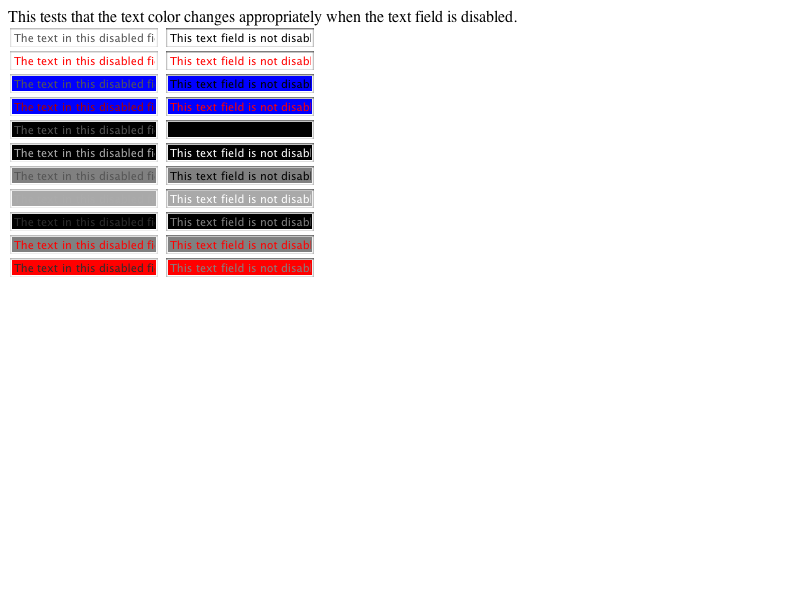
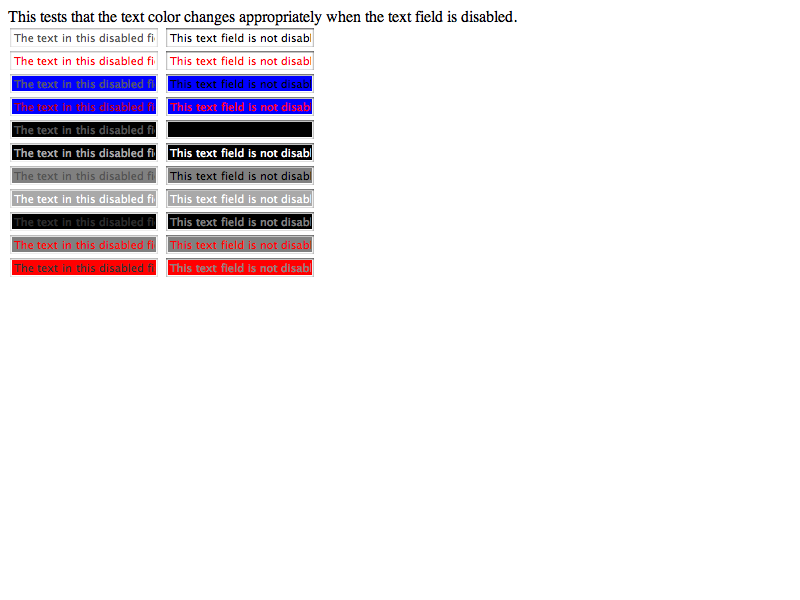
WebCore:
2008-09-30  Adele Peterson  <adele@apple.com>

        Reviewed by Darin Adler.

        Fix for https://bugs.webkit.org/show_bug.cgi?id=21227
        <rdar://problem/6222134> add a way to set color for input placeholder text

        Test: fast/forms/placeholder-pseudo-style.html

        This change adds "-webkit-input-placeholder-mode" as a pseudo class that can be used to style
        input elements when they are displaying the placeholder text.

        * css/CSSSelector.cpp: (WebCore::CSSSelector::extractPseudoType): Add case for inputPlaceholderMode.
        * css/CSSSelector.h: (WebCore::CSSSelector::): Add PseudoInputPlaceholderMode.
        * css/CSSStyleSelector.cpp: (WebCore::CSSStyleSelector::SelectorChecker::checkOneSelector):
        Add check for PseudoInputPlaceholderMode that asks the node if placeholderShouldBeVisible is true.
        * css/html4.css: Add rule to make placeholder text default to darkGray.

        * html/HTMLInputElement.cpp:
        (WebCore::HTMLInputElement::init): Initialize m_placeholderShouldBeVisible.
        (WebCore::HTMLInputElement::dispatchFocusEvent): Call updatePlaceholderVisibility.
        (WebCore::HTMLInputElement::dispatchBlurEvent): ditto.
        (WebCore::HTMLInputElement::parseMappedAttribute): ditto.
        (WebCore::HTMLInputElement::setValue): ditto.
        (WebCore::HTMLInputElement::setValueFromRenderer): ditto.
[…]

diff --git a/LayoutTests/fast/forms/password-placeholder-text-security.html b/LayoutTests/fast/forms/password-placeholder-text-security.html
@@ -1,0 +1,36 @@
+<html>
+    <head>
+        <script>
+            function test()
+            {
+                if (window.layoutTestController)
+                    layoutTestController.waitUntilDone();
+                    
+                // 1) leave field 1 alone. It should show the placeholder text.
+                // 2) focus field 2 and type.  It should show bullets for the password.
+                    var password = document.getElementById("pass2");
+                    password.focus();
+                    document.execCommand("InsertText", false, "test");
+                // 3) focus field 3 and type.  Clear the value and blur the field.  It should show the placeholder text.
+                    password = document.getElementById("pass3");
+                    password.focus();
+                    document.execCommand("InsertText", false, "test");
+                    password.value = "";
+                    password.blur();
+
+                if (window.layoutTestController)
+                    layoutTestController.notifyDone();
+            }
+            function log(msg)
+            {
+                document.getElementById('console').appendChild(document.createTextNode(msg + "\n"));
+            }
+        </script>
+    </head>
+    <body onload="test()">
+        This tests that the text security mode switches correctly when the placeholder appears and disappears.<br>
+        Leave field 1 alone. It should show the placeholder text: <input type="password" id="pass1" placeholder="placeholder"><br>
+        Focus field 2 and type.  It should show bullets for the password.: <input type="password" id="pass2" placeholder="placeholder"><br>
+        Focus field 3 and type.  Clear the value and blur the field.  It should show the placeholder text: <input type="password" id="pass3" placeholder="placeholder"><br>
+    </body>
+</html>

diff --git a/LayoutTests/fast/forms/placeholder-pseudo-style.html b/LayoutTests/fast/forms/placeholder-pseudo-style.html
@@ -1,0 +1,12 @@
+<style>
+input.red:-webkit-input-placeholder-mode {
+    color: rgb(100, 0, 0);
+}
+</style>
+This tests that you can set the placeholder text color.<br>
+<input class="red" placeholder="text">
+<input class="red" type="search" placeholder="search">
+<input class="red" type="password" placeholder="password">
+<input class="red" disabled placeholder="disabled text">
+<input placeholder="default">
+<input placeholder="default disabled">

diff --git a/WebCore/css/html4.css b/WebCore/css/html4.css
@@ -361,6 +361,10 @@ textarea {
     cursor: auto;
 }
 
+input:-webkit-input-placeholder-mode {
+    color: darkGray;
+}
+
 input[type="password"] {
     -webkit-text-security: disc !important;
 }

diff --git a/WebCore/rendering/RenderTextControl.cpp b/WebCore/rendering/RenderTextControl.cpp
@@ -58,6 +58,28 @@ namespace WebCore {
 using namespace EventNames;
 using namespace HTMLNames;
 
+// Value chosen by observation.  This can be tweaked.
+static const int minColorContrastValue = 1300;
+
+static Color disabledTextColor(const Color& textColor, const Color& backgroundColor)
+{
+    // The explicit check for black is an optimization for the 99% case (black on white).
+    // This also means that black on black will turn into grey on black when disabled.
+    Color disabledColor;
+    if (textColor.rgb() == Color::black || differenceSquared(textColor, Color::white) > differenceSquared(backgroundColor, Color::white))
+        disabledColor = textColor.light();
+    else
+        disabledColor = textColor.dark();
+    
+    // If there's not very much contrast between the disabled color and the background color,
+    // just leave the text color alone.  We don't want to change a good contrast color scheme so that it has really bad contrast.
+    // If the the contrast was already poor, then it doesn't do any good to change it to a different poor contrast color scheme.
+    if (differenceSquared(disabledColor, backgroundColor) < minColorContrastValue)
+        return textColor;
+    
+    return disabledColor;
+}
+
 RenderTextControl::RenderTextControl(Node* node, bool multiLine)
     : RenderBlock(node)
     , m_dirty(false)
@@ -118,15 +140,6 @@ void RenderTextControl::setStyle(RenderStyle* style)
 
     setHasOverflowClip(false);
     setReplaced(isInline());
-}
-
-static Color disabledTextColor(const Color& textColor, const Color& backgroundColor)
-{
-    // The explcit check for black is an optimization for the 99% case (black on white).
-    // This also means that black on black will turn into grey on black when disabled.
-    if (textColor.rgb() == Color::black || differenceSquared(textColor, Color::white) > differenceSquared(backgroundColor, Color::white))
-        return textColor.light();
-    return textColor.dark();
 }
 
 RenderStyle* RenderTextControl::createInnerBlockStyle(RenderStyle* startStyle)
@@ -190,6 +203,12 @@ RenderStyle* RenderTextControl::createInnerTextStyle(RenderStyle* startStyle)
         textBlockStyle->setPaddingLeft(Length(3, Fixed));
         textBlockStyle->setPaddingRight(Length(3, Fixed));
     }
+    
+    // When the placeholder is going to be displayed, temporarily override the text security to be "none".
+    // After this, updateFromElement will immediately update the text displayed.
+    // When the placeholder is no longer visible, style will be recomputed, and the text security mode will be set back to the computed value correctly.
+    if (!m_multiLine && static_cast<HTMLInputElement*>(element)->placeholderShouldBeVisible())
+        textBlockStyle->setTextSecurity(TSNONE);
 
     if (!element->isEnabled())
         textBlockStyle->setColor(disabledTextColor(startStyle->color(), startStyle->backgroundColor()));
@@ -234,50 +253,6 @@ RenderStyle* RenderTextControl::createCancelButtonStyle(RenderStyle* startStyle)
     updateCancelButtonVisibility(cancelBlockStyle);
 
     return cancelBlockStyle;
-}
-
-void RenderTextControl::updatePlaceholder()
-{
-    bool oldPlaceholderVisible = m_placeholderVisible;
-    
-    String placeholder;
-    if (!m_multiLine) {
-        HTMLInputElement* input = static_cast<HTMLInputElement*>(node());
-        if (input->value().isEmpty() && document()->focusedNode() != node())
-            placeholder = input->getAttribute(placeholderAttr);
-    }
-
-    if (!placeholder.isEmpty() || m_placeholderVisible) {
-        ExceptionCode ec = 0;
-        m_innerText->setInnerText(placeholder, ec);
-        m_placeholderVisible = !placeholder.isEmpty();
-    }
-
-    Color color;
-    if (!placeholder.isEmpty())
-        color = Color::darkGray;
-    else if (node()->isEnabled())
-        color = style()->color();
-    else
-        color = disabledTextColor(style()->color(), style()->backgroundColor());
-
-    RenderObject* renderer = m_innerText->renderer();
-    RenderStyle* innerStyle = renderer->style();
-    if (innerStyle->color() != color) {
-        innerStyle->setColor(color);
-        renderer->repaint();
-    }
-
-    // temporary disable textSecurity if placeholder is visible
-    if (style()->textSecurity() != TSNONE && oldPlaceholderVisible != m_placeholderVisible) {
-        RenderStyle* newInnerStyle = new (renderArena()) RenderStyle(*innerStyle);
-        newInnerStyle->setTextSecurity(m_placeholderVisible ? TSNONE : style()->textSecurity());
-        renderer->setStyle(newInnerStyle);
-        for (Node* n = m_innerText->firstChild(); n; n = n->traverseNextNode(m_innerText.get())) {
-            if (n->renderer())
-                n->renderer()->setStyle(newInnerStyle);
-        }
-    }
 }
 
 void RenderTextControl::createSubtreeIfNeeded()
@@ -327,16 +302,21 @@ void RenderTextControl::updateFromElement()
 {
     HTMLFormControlElement* element = static_cast<HTMLFormControlElement*>(node());
 
+    bool placeholderShouldBeVisible = !m_multiLine && static_cast<HTMLInputElement*>(element)->placeholderShouldBeVisible();
+    bool placeholderVisibilityShouldChange = m_placeholderVisible != placeholderShouldBeVisible;
+    m_placeholderVisible = placeholderShouldBeVisible;
+
     createSubtreeIfNeeded();
 
     if (m_cancelButton && m_cancelButton->renderer())
         updateCancelButtonVisibility(m_cancelButton->renderer()->style());
 
-    updatePlaceholder();
-
     m_innerText->renderer()->style()->setUserModify(element->isReadOnlyControl() || element->disabled() ? READ_ONLY : READ_WRITE_PLAINTEXT_ONLY);
-
-    if ((!element->valueMatchesRenderer() || m_multiLine) && !m_placeholderVisible) {
+    
+    if (m_placeholderVisible) {
+        ExceptionCode ec;
+        m_innerText->setInnerText(static_cast<HTMLInputElement*>(element)->getAttribute(placeholderAttr), ec);
+    } else if (!element->valueMatchesRenderer() || m_multiLine || placeholderVisibilityShouldChange) {
         String value;
         if (m_multiLine)
             value = static_cast<HTMLTextAreaElement*>(element)->value();
@@ -871,12 +851,10 @@ void RenderTextControl::forwardEvent(Event* evt)
             if (innerLayer && !m_multiLine)
                 innerLayer->scrollToOffset(style()->direction() == RTL ? innerLayer->scrollWidth() : 0, 0);
         }
-        updatePlaceholder();
         capsLockStateMayHaveChanged();
-    } else if (evt->type() == focusEvent) {
-        updatePlaceholder();
+    } else if (evt->type() == focusEvent)
         capsLockStateMayHaveChanged();
-    } else {
+    else {
         if (evt->isMouseEvent() && m_resultsButton && static_cast<MouseEvent*>(evt)->x() < m_innerText->renderer()->absoluteBoundingBoxRect().x())
             m_resultsButton->defaultEventHandler(evt);
         else if (evt->isMouseEvent() && m_cancelButton && static_cast<MouseEvent*>(evt)->x() > m_innerText->renderer()->absoluteBoundingBoxRect().right())

diff --git a/WebCore/html/HTMLInputElement.cpp b/WebCore/html/HTMLInputElement.cpp
@@ -127,7 +127,8 @@ void HTMLInputElement::init()
     m_autocomplete = Uninitialized;
     m_inited = false;
     m_autofilled = false;
-
+    m_placeholderShouldBeVisible = false;
+    
     xPos = 0;
     yPos = 0;
     
@@ -245,6 +246,7 @@ void HTMLInputElement::dispatchFocusEvent()
 {
     if (isTextField()) {
         setAutofilled(false);
+        updatePlaceholderVisibility();
         if (inputType() == PASSWORD && document()->frame())
             document()->setUseSecureKeyboardEntryWhenActive(true);
     }
@@ -254,6 +256,7 @@ void HTMLInputElement::dispatchFocusEvent()
 void HTMLInputElement::dispatchBlurEvent()
 {
     if (isTextField() && document()->frame()) {
+        updatePlaceholderVisibility();
         if (inputType() == PASSWORD)
             document()->setUseSecureKeyboardEntryWhenActive(false);
         document()->frame()->textFieldDidEndEditing(this);
@@ -689,9 +692,10 @@ void HTMLInputElement::parseMappedAttribute(MappedAttribute *attr)
             attach();
         }
         setChanged();
-    } else if (attr->name() == autosaveAttr ||
+    } else if (attr->name() == placeholderAttr)
+        updatePlaceholderVisibility();
+    else if (attr->name() == autosaveAttr ||
                attr->name() == incrementalAttr ||
-               attr->name() == placeholderAttr ||
                attr->name() == minAttr ||
                attr->name() == maxAttr ||
                attr->name() == precisionAttr) {
@@ -995,6 +999,8 @@ void HTMLInputElement::setValue(const String& value)
     if (inputType() == FILE && !value.isEmpty())
         return;
 
+    updatePlaceholderVisibility();
+    
     setValueMatchesRenderer(false);
     if (storesValueSeparateFromAttribute()) {
         if (inputType() == FILE)
@@ -1026,6 +1032,8 @@ void HTMLInputElement::setValueFromRenderer(const String& value)
     // Renderer and our event handler are responsible for constraining values.
     ASSERT(value == constrainValue(value) || constrainValue(value).isEmpty());
 
+    updatePlaceholderVisibility();
+    
     if (inputType() == FILE) {
         m_fileList->clear();
         m_fileList->append(File::create(value));
@@ -1548,6 +1556,18 @@ void HTMLInputElement::unregisterForActivationCallbackIfNeeded()
 {
     if (!needsActivationCallback())
         document()->unregisterForDocumentActivationCallbacks(this);
+}
+
+void HTMLInputElement::updatePlaceholderVisibility()
+{
+    bool oldPlaceholderShouldBeVisible = m_placeholderShouldBeVisible;
+    
+    m_placeholderShouldBeVisible = value().isEmpty() 
+        && document()->focusedNode() != this
+        && !getAttribute(placeholderAttr).isEmpty();
+
+    if (oldPlaceholderShouldBeVisible != m_placeholderShouldBeVisible)
+        setChanged();
 }
 
 String HTMLInputElement::constrainValue(const String& proposedValue, int maxLen) const

diff --git a/WebCore/css/CSSSelector.cpp b/WebCore/css/CSSSelector.cpp
@@ -88,6 +88,7 @@ void CSSSelector::extractPseudoType() const
     static AtomicString focus("focus");
     static AtomicString hover("hover");
     static AtomicString indeterminate("indeterminate");
+    static AtomicString inputPlaceholderMode("-webkit-input-placeholder-mode");
     static AtomicString lastChild("last-child");
     static AtomicString lastOfType("last-of-type");
     static AtomicString link("link");
@@ -152,6 +153,8 @@ void CSSSelector::extractPseudoType() const
         m_pseudoType = PseudoFirstChild;
     else if (m_value == fullPageMedia)
         m_pseudoType = PseudoFullPageMedia;
+    else if (m_value == inputPlaceholderMode)
+        m_pseudoType = PseudoInputPlaceholderMode;
     else if (m_value == lastChild)
         m_pseudoType = PseudoLastChild;
     else if (m_value == lastOfType)

diff --git a/WebCore/html/HTMLInputElement.h b/WebCore/html/HTMLInputElement.h
@@ -204,6 +204,8 @@ public:
     
     virtual bool willValidate() const;
 
+    bool placeholderShouldBeVisible() const { return m_placeholderShouldBeVisible; }
+    
 protected:
     virtual void willMoveToNewOwnerDocument();
     virtual void didMoveToNewOwnerDocument();
@@ -220,6 +222,8 @@ private:
     void registerForActivationCallbackIfNeeded();
     void unregisterForActivationCallbackIfNeeded();
 
+    void updatePlaceholderVisibility();
+    
     String m_value;
     String m_originalValue;
     int xPos;
@@ -243,6 +247,7 @@ private:
     AutoCompleteSetting m_autocomplete : 2;
     bool m_autofilled : 1;
     bool m_inited : 1;
+    bool m_placeholderShouldBeVisible : 1;
     
     int cachedSelStart;
     int cachedSelEnd;

diff --git a/WebCore/css/CSSStyleSelector.cpp b/WebCore/css/CSSStyleSelector.cpp
@@ -2191,6 +2191,10 @@ bool CSSStyleSelector::SelectorChecker::checkOneSelector(CSSSelector* sel, Eleme
                     // that are non-"hidden" controls.
                     return !e->isEnabled();                    
                 break;
+            case CSSSelector::PseudoInputPlaceholderMode:
+                if (e && e->hasTagName(inputTag))
+                    return static_cast<HTMLInputElement*>(e)->placeholderShouldBeVisible();
+                break;
             case CSSSelector::PseudoReadOnly:
                 return e && e->isTextControl() && e->isReadOnlyControl();
             case CSSSelector::PseudoReadWrite:

diff --git a/WebCore/rendering/RenderTextControl.h b/WebCore/rendering/RenderTextControl.h
@@ -134,7 +134,6 @@ private:
     RenderStyle* createCancelButtonStyle(RenderStyle* startStyle);
     RenderStyle* createResultsButtonStyle(RenderStyle* startStyle);
 
-    void updatePlaceholder();
     void createSubtreeIfNeeded();
     void updateCancelButtonVisibility(RenderStyle*);
     const AtomicString& autosaveName() const;

diff --git a/WebCore/css/CSSSelector.h b/WebCore/css/CSSSelector.h
@@ -140,6 +140,7 @@ namespace WebCore {
             PseudoEnabled,
             PseudoFullPageMedia,
             PseudoDisabled,
+            PseudoInputPlaceholderMode,
             PseudoReadOnly,
             PseudoReadWrite,
             PseudoIndeterminate,
